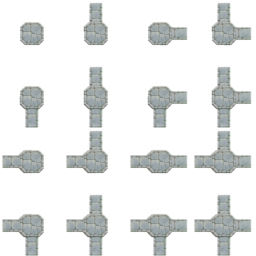
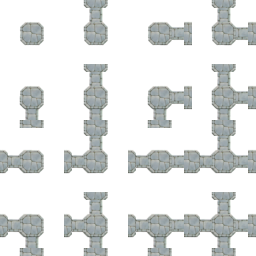
Fix seamless road atlas connections

diff --git a/tools/normalize_road_atlases.py b/tools/normalize_road_atlases.py
@@ -1,0 +1,160 @@
+#!/usr/bin/env python3
+"""Make cardinal connections in the generated road atlases seamless.
+
+The interiors remain generated artwork. Only the outer edge bands of connected
+arms are replaced with complementary halves of canonical strips sampled from
+each tier's horizontal and vertical straight tiles.
+"""
+
+from __future__ import annotations
+
+import argparse
+from pathlib import Path
+
+from PIL import Image
+
+
+TILE_SIZE = 64
+ATLAS_GRID_SIZE = 4
+PORT_DEPTH = 8
+NORTH = 1
+EAST = 2
+SOUTH = 4
+WEST = 8
+
+DEFAULT_ATLASES = (
+    Path("godot/assets/generated/road_dirt_path_atlas.png"),
+    Path("godot/assets/generated/road_cobblestone_atlas.png"),
+    Path("godot/assets/generated/road_flagstone_atlas.png"),
+)
+
+
+def tile_box(mask: int) -> tuple[int, int, int, int]:
+    x = (mask % ATLAS_GRID_SIZE) * TILE_SIZE
+    y = (mask // ATLAS_GRID_SIZE) * TILE_SIZE
+    return x, y, x + TILE_SIZE, y + TILE_SIZE
+
+
+def strongest_vertical_seam(tile: Image.Image) -> int:
+    """Find a central x boundary with the most opaque material crossing it."""
+    alpha = tile.getchannel("A")
+    candidates = range(TILE_SIZE // 4, TILE_SIZE * 3 // 4)
+    return max(
+        candidates,
+        key=lambda x: sum(
+            min(alpha.getpixel((x - 1, y)), alpha.getpixel((x, y)))
+            for y in range(TILE_SIZE)
+        ),
+    )
+
+
+def strongest_horizontal_seam(tile: Image.Image) -> int:
+    """Find a central y boundary with the most opaque material crossing it."""
+    alpha = tile.getchannel("A")
+    candidates = range(TILE_SIZE // 4, TILE_SIZE * 3 // 4)
+    return max(
+        candidates,
+        key=lambda y: sum(
+            min(alpha.getpixel((x, y - 1)), alpha.getpixel((x, y)))
+            for x in range(TILE_SIZE)
+        ),
+    )
+
+
+def horizontal_port_bands(tile: Image.Image) -> tuple[Image.Image, Image.Image]:
+    """Return complementary west/east bands from a continuous source strip."""
+    seam = strongest_vertical_seam(tile)
+    strip = tile.crop((seam - PORT_DEPTH, 0, seam + PORT_DEPTH, TILE_SIZE))
+    east_band = strip.crop((0, 0, PORT_DEPTH, TILE_SIZE))
+    west_band = strip.crop((PORT_DEPTH, 0, PORT_DEPTH * 2, TILE_SIZE))
+    return west_band, east_band
+
+
+def vertical_port_bands(tile: Image.Image) -> tuple[Image.Image, Image.Image]:
+    """Return complementary north/south bands from a continuous source strip."""
+    seam = strongest_horizontal_seam(tile)
+    strip = tile.crop((0, seam - PORT_DEPTH, TILE_SIZE, seam + PORT_DEPTH))
+    south_band = strip.crop((0, 0, TILE_SIZE, PORT_DEPTH))
+    north_band = strip.crop((0, PORT_DEPTH, TILE_SIZE, PORT_DEPTH * 2))
+    return north_band, south_band
+
+
+def clear_band(tile: Image.Image, box: tuple[int, int, int, int]) -> None:
+    tile.paste((0, 0, 0, 0), box)
+
+
+def normalize_atlas(path: Path) -> None:
+    with Image.open(path) as source:
+        atlas = source.convert("RGBA")
+
+    expected_size = TILE_SIZE * ATLAS_GRID_SIZE
+    if atlas.size != (expected_size, expected_size):
+        raise ValueError(f"{path}: expected {expected_size}x{expected_size}, got {atlas.size}")
+
+    horizontal_straight = atlas.crop(tile_box(EAST | WEST))
+    vertical_straight = atlas.crop(tile_box(NORTH | SOUTH))
+    west_port, east_port = horizontal_port_bands(horizontal_straight)
+    north_port, south_port = vertical_port_bands(vertical_straight)
+
+    normalized = Image.new("RGBA", atlas.size)
+    for mask in range(16):
+        tile = atlas.crop(tile_box(mask))
+
+        clear_band(tile, (0, 0, PORT_DEPTH, TILE_SIZE))
+        clear_band(tile, (TILE_SIZE - PORT_DEPTH, 0, TILE_SIZE, TILE_SIZE))
+        clear_band(tile, (0, 0, TILE_SIZE, PORT_DEPTH))
+        clear_band(tile, (0, TILE_SIZE - PORT_DEPTH, TILE_SIZE, TILE_SIZE))
+
+        if mask & WEST:
+            tile.alpha_composite(west_port, (0, 0))
+        if mask & EAST:
+            tile.alpha_composite(east_port, (TILE_SIZE - PORT_DEPTH, 0))
+        if mask & NORTH:
+            tile.alpha_composite(north_port, (0, 0))
+        if mask & SOUTH:
+            tile.alpha_composite(south_port, (0, TILE_SIZE - PORT_DEPTH))
+
+        normalized.alpha_composite(tile, tile_box(mask)[:2])
+
+    validate_atlas(normalized, path)
+    normalized.save(path, optimize=True)
+
+
+def validate_atlas(atlas: Image.Image, path: Path) -> None:
+    tiles = [atlas.crop(tile_box(mask)) for mask in range(16)]
+    west_ports = {
+        tiles[mask].crop((0, 0, PORT_DEPTH, TILE_SIZE)).tobytes()
+        for mask in range(16)
+        if mask & WEST
+    }
+    east_ports = {
+        tiles[mask].crop((TILE_SIZE - PORT_DEPTH, 0, TILE_SIZE, TILE_SIZE)).tobytes()
+        for mask in range(16)
+        if mask & EAST
+    }
+    north_ports = {
+        tiles[mask].crop((0, 0, TILE_SIZE, PORT_DEPTH)).tobytes()
+        for mask in range(16)
+        if mask & NORTH
+    }
+    south_ports = {
+        tiles[mask].crop((0, TILE_SIZE - PORT_DEPTH, TILE_SIZE, TILE_SIZE)).tobytes()
+        for mask in range(16)
+        if mask & SOUTH
+    }
+    port_sets = (west_ports, east_ports, north_ports, south_ports)
+    if any(len(ports) != 1 for ports in port_sets):
+        raise ValueError(f"{path}: connected edge ports are not identical")
+
+
+def main() -> None:
+    parser = argparse.ArgumentParser()
+    parser.add_argument("atlases", nargs="*", type=Path, default=DEFAULT_ATLASES)
+    args = parser.parse_args()
+    for atlas in args.atlases:
+        normalize_atlas(atlas)
+        print(f"normalized {atlas}")
+
+
+if __name__ == "__main__":
+    main()